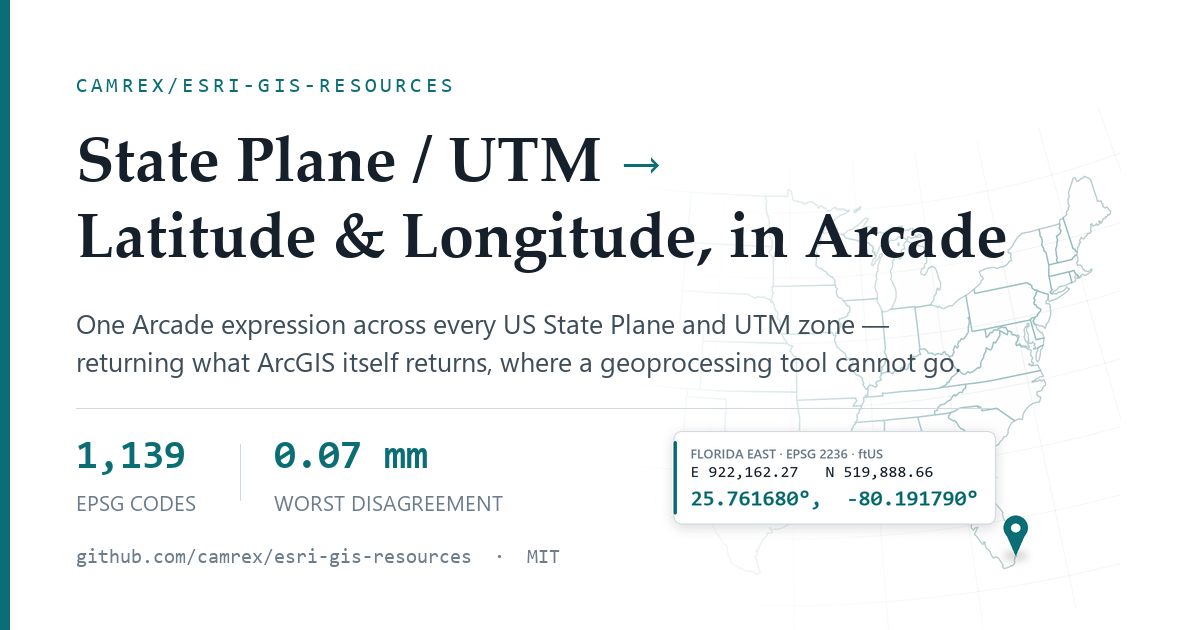
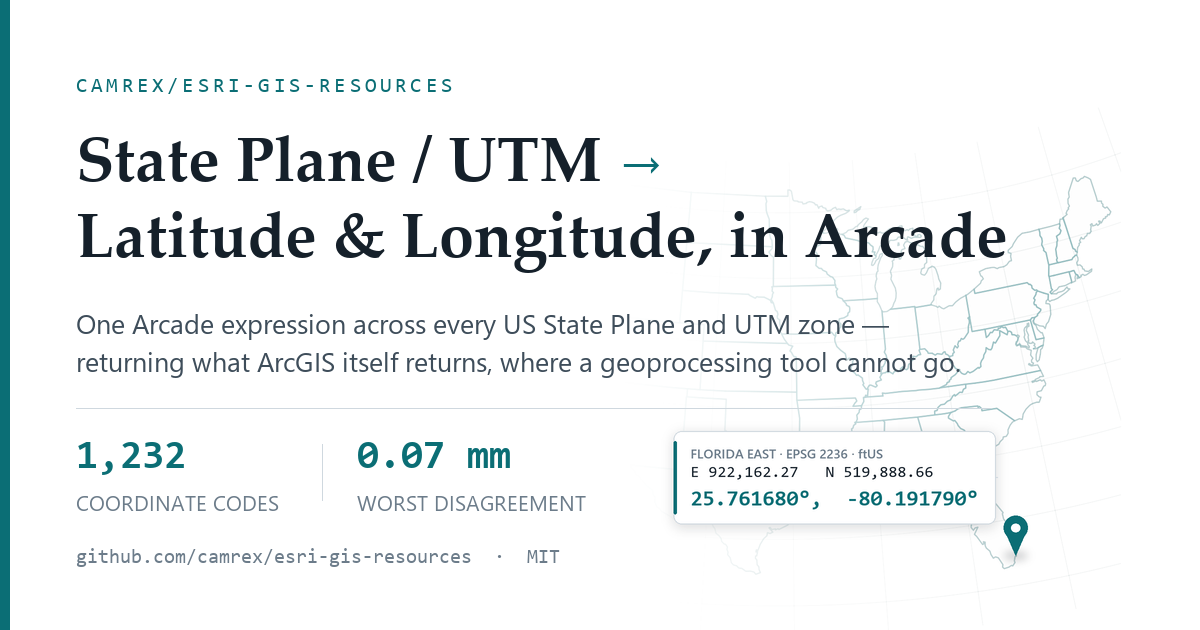
Re-render the social card for 1,232 codes
The card still advertised 1,139 EPSG codes, and the page's alt text
matched the image rather than the build. tools/make_social_card.py has
regenerated it all along; its facts were simply never updated. Both now
say 1,232 coordinate codes, and --check passes against the committed PNG.

Changed region(s): [[0.2158, 0.6937, 0.4317, 0.754], [0.0617, 0.7841, 0.4933, 0.8143], [0.0925, 0.6937, 0.1542, 0.754]]

diff --git a/arcade-stateplane-utm-to-latlong/index.html b/arcade-stateplane-utm-to-latlong/index.html
@@ -21,9 +21,7 @@
 <meta property="og:image:type" content="image/png">
 <meta property="og:image:width" content="1200">
 <meta property="og:image:height" content="630">
-<!-- social-card.png still shows the 1,139-code figure; the alt text matches the image
-     deliberately rather than the current build. Re-render the card to update both. -->
-<meta property="og:image:alt" content="State Plane / UTM to Latitude &amp; Longitude, in Arcade — 1,139 EPSG codes, 0.07 mm worst disagreement, MIT licensed.">
+<meta property="og:image:alt" content="State Plane / UTM to Latitude &amp; Longitude, in Arcade — 1,232 coordinate codes, 0.07 mm worst disagreement, MIT licensed.">
 <meta name="twitter:card" content="summary_large_image">
 <meta name="twitter:title" content="State Plane / UTM → Latitude &amp; Longitude, in Arcade">
 <meta name="twitter:description" content="One Arcade expression across every US State Plane and UTM zone — 1,232 coordinate system codes, returning what ArcGIS itself returns, where a geoprocessing tool cannot go.">

diff --git a/tools/make_social_card.py b/tools/make_social_card.py
@@ -99,7 +99,7 @@ def render():
     x = PAD
     # Two facts, not three: the pinned conversion occupies the right of the card
     # now, so MIT moves to the footer line rather than crowding it.
-    facts = [("1,139", "EPSG codes"), ("0.07 mm", "worst disagreement")]
+    facts = [("1,232", "coordinate codes"), ("0.07 mm", "worst disagreement")]
     for i, (num, cap) in enumerate(facts):
         if i:
             d.line([(x - 34, y + 6), (x - 34, y + 62)], fill=RULE, width=1)
